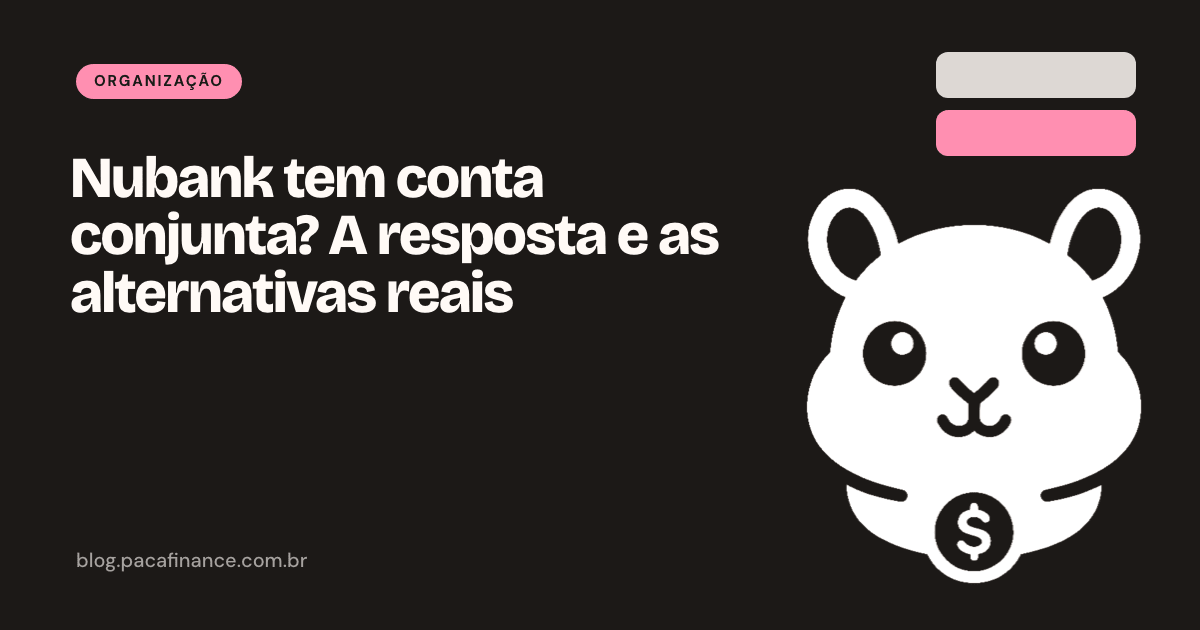
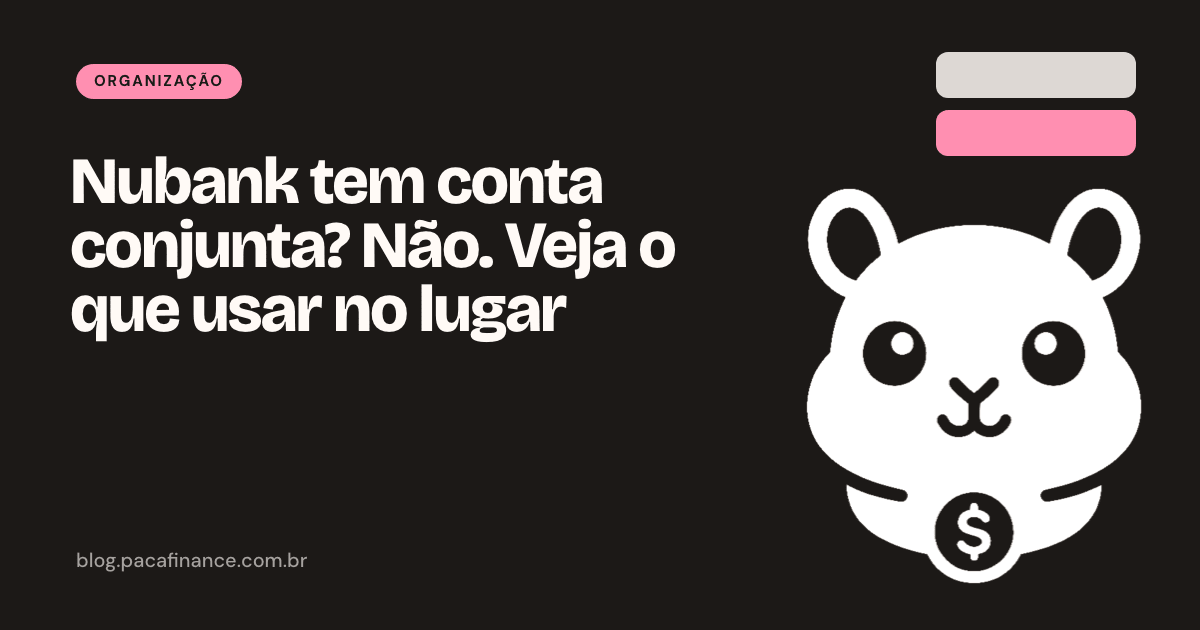
fix(blog): título do Nubank, link do MEI e noindex no descadastro
O artigo do Nubank teve CTR de 0,4% com 515 impressões em 28 dias: o
snippet agora responde a pergunta da busca logo no título e na descrição
(o card de compartilhamento foi regerado com o título novo).

O link do gov.br sobre a contribuição do MEI dava 404; foi trocado pela
página atual do DAS, que traz a composição citada no texto.

/descadastro é página de serviço do e-mail e não deve ir ao índice:
ganha noindex por uma prop do BaseLayout e sai do sitemap.

Changed region(s): [[0.0617, 0.2413, 0.6167, 0.5429]]

diff --git a/apps/blog/src/content/blog/renda-extra-no-casal.md b/apps/blog/src/content/blog/renda-extra-no-casal.md
@@ -72,7 +72,7 @@ E existe uma regra de bolso que sai direto da fórmula e serve para qualquer pes
 
 Depende do que está atrapalhando, e vale separar as duas situações antes de pagar qualquer guia.
 
-O MEI tem limite de faturamento de **R$ 81.000 por ano**, o que dá uma média de R$ 6.750 por mês, e a [contribuição mensal em 2026](https://www.gov.br/empresas-e-negocios/pt-br/empreendedor/perguntas-frequentes/pagamento-da-contribuicao-mensal-carne-mensal/qual-o-valor-das-contribuicoes) é de **R$ 82,05** para comércio e indústria, **R$ 86,05** para serviços e **R$ 87,05** para quem faz os dois — os três saem dos mesmos R$ 81,05 de INSS, que são 5% do salário mínimo, mais o imposto do seu ramo. É um valor fixo e baixo, e ele resolve bem um problema específico: emitir nota fiscal para cliente que exige nota, o que costuma ser a condição para trabalhar com empresa.
+O MEI tem limite de faturamento de **R$ 81.000 por ano**, o que dá uma média de R$ 6.750 por mês, e a [contribuição mensal em 2026](https://www.gov.br/empresas-e-negocios/pt-br/empreendedor/servicos-para-mei/pagamento-de-contribuicao-mensal) é de **R$ 82,05** para comércio e indústria, **R$ 86,05** para serviços e **R$ 87,05** para quem faz os dois — os três saem dos mesmos R$ 81,05 de INSS, que são 5% do salário mínimo, mais o imposto do seu ramo. É um valor fixo e baixo, e ele resolve bem um problema específico: emitir nota fiscal para cliente que exige nota, o que costuma ser a condição para trabalhar com empresa.
 
 O que ele não resolve é o bico ocasional pago por pessoa física. Nesse caso, o CNPJ vira um custo que corre todo mês independentemente de o trabalho aparecer: R$ 86,05 por mês são R$ 1.032,60 por ano, que saem do resultado do freela mesmo nos meses em que ele não rendeu nada. Antes de abrir, façam a pergunta mais simples possível — **algum cliente de vocês exigiu nota fiscal, ou o CNPJ está sendo aberto por precaução?**
 

diff --git a/apps/blog/src/content/blog/conta-conjunta-nubank.md b/apps/blog/src/content/blog/conta-conjunta-nubank.md
@@ -1,6 +1,6 @@
 ---
-title: "Nubank tem conta conjunta? A resposta e as alternativas reais"
-description: "O Nubank não oferece conta conjunta com dois titulares. Veja o que existe dentro do app, as alternativas fora dele e como o casal resolve o dia a dia mesmo assim."
+title: "Nubank tem conta conjunta? Não. Veja o que usar no lugar"
+description: "O Nubank não oferece conta conjunta nem caixinha compartilhada. Veja o saldo compartilhado do Ultravioleta e como o casal divide contas com Pix agendado."
 pubDate: 2026-08-28
 category: "organizacao"
 tags: ["nubank", "conta conjunta", "finanças do casal", "organização financeira", "bancos digitais"]
